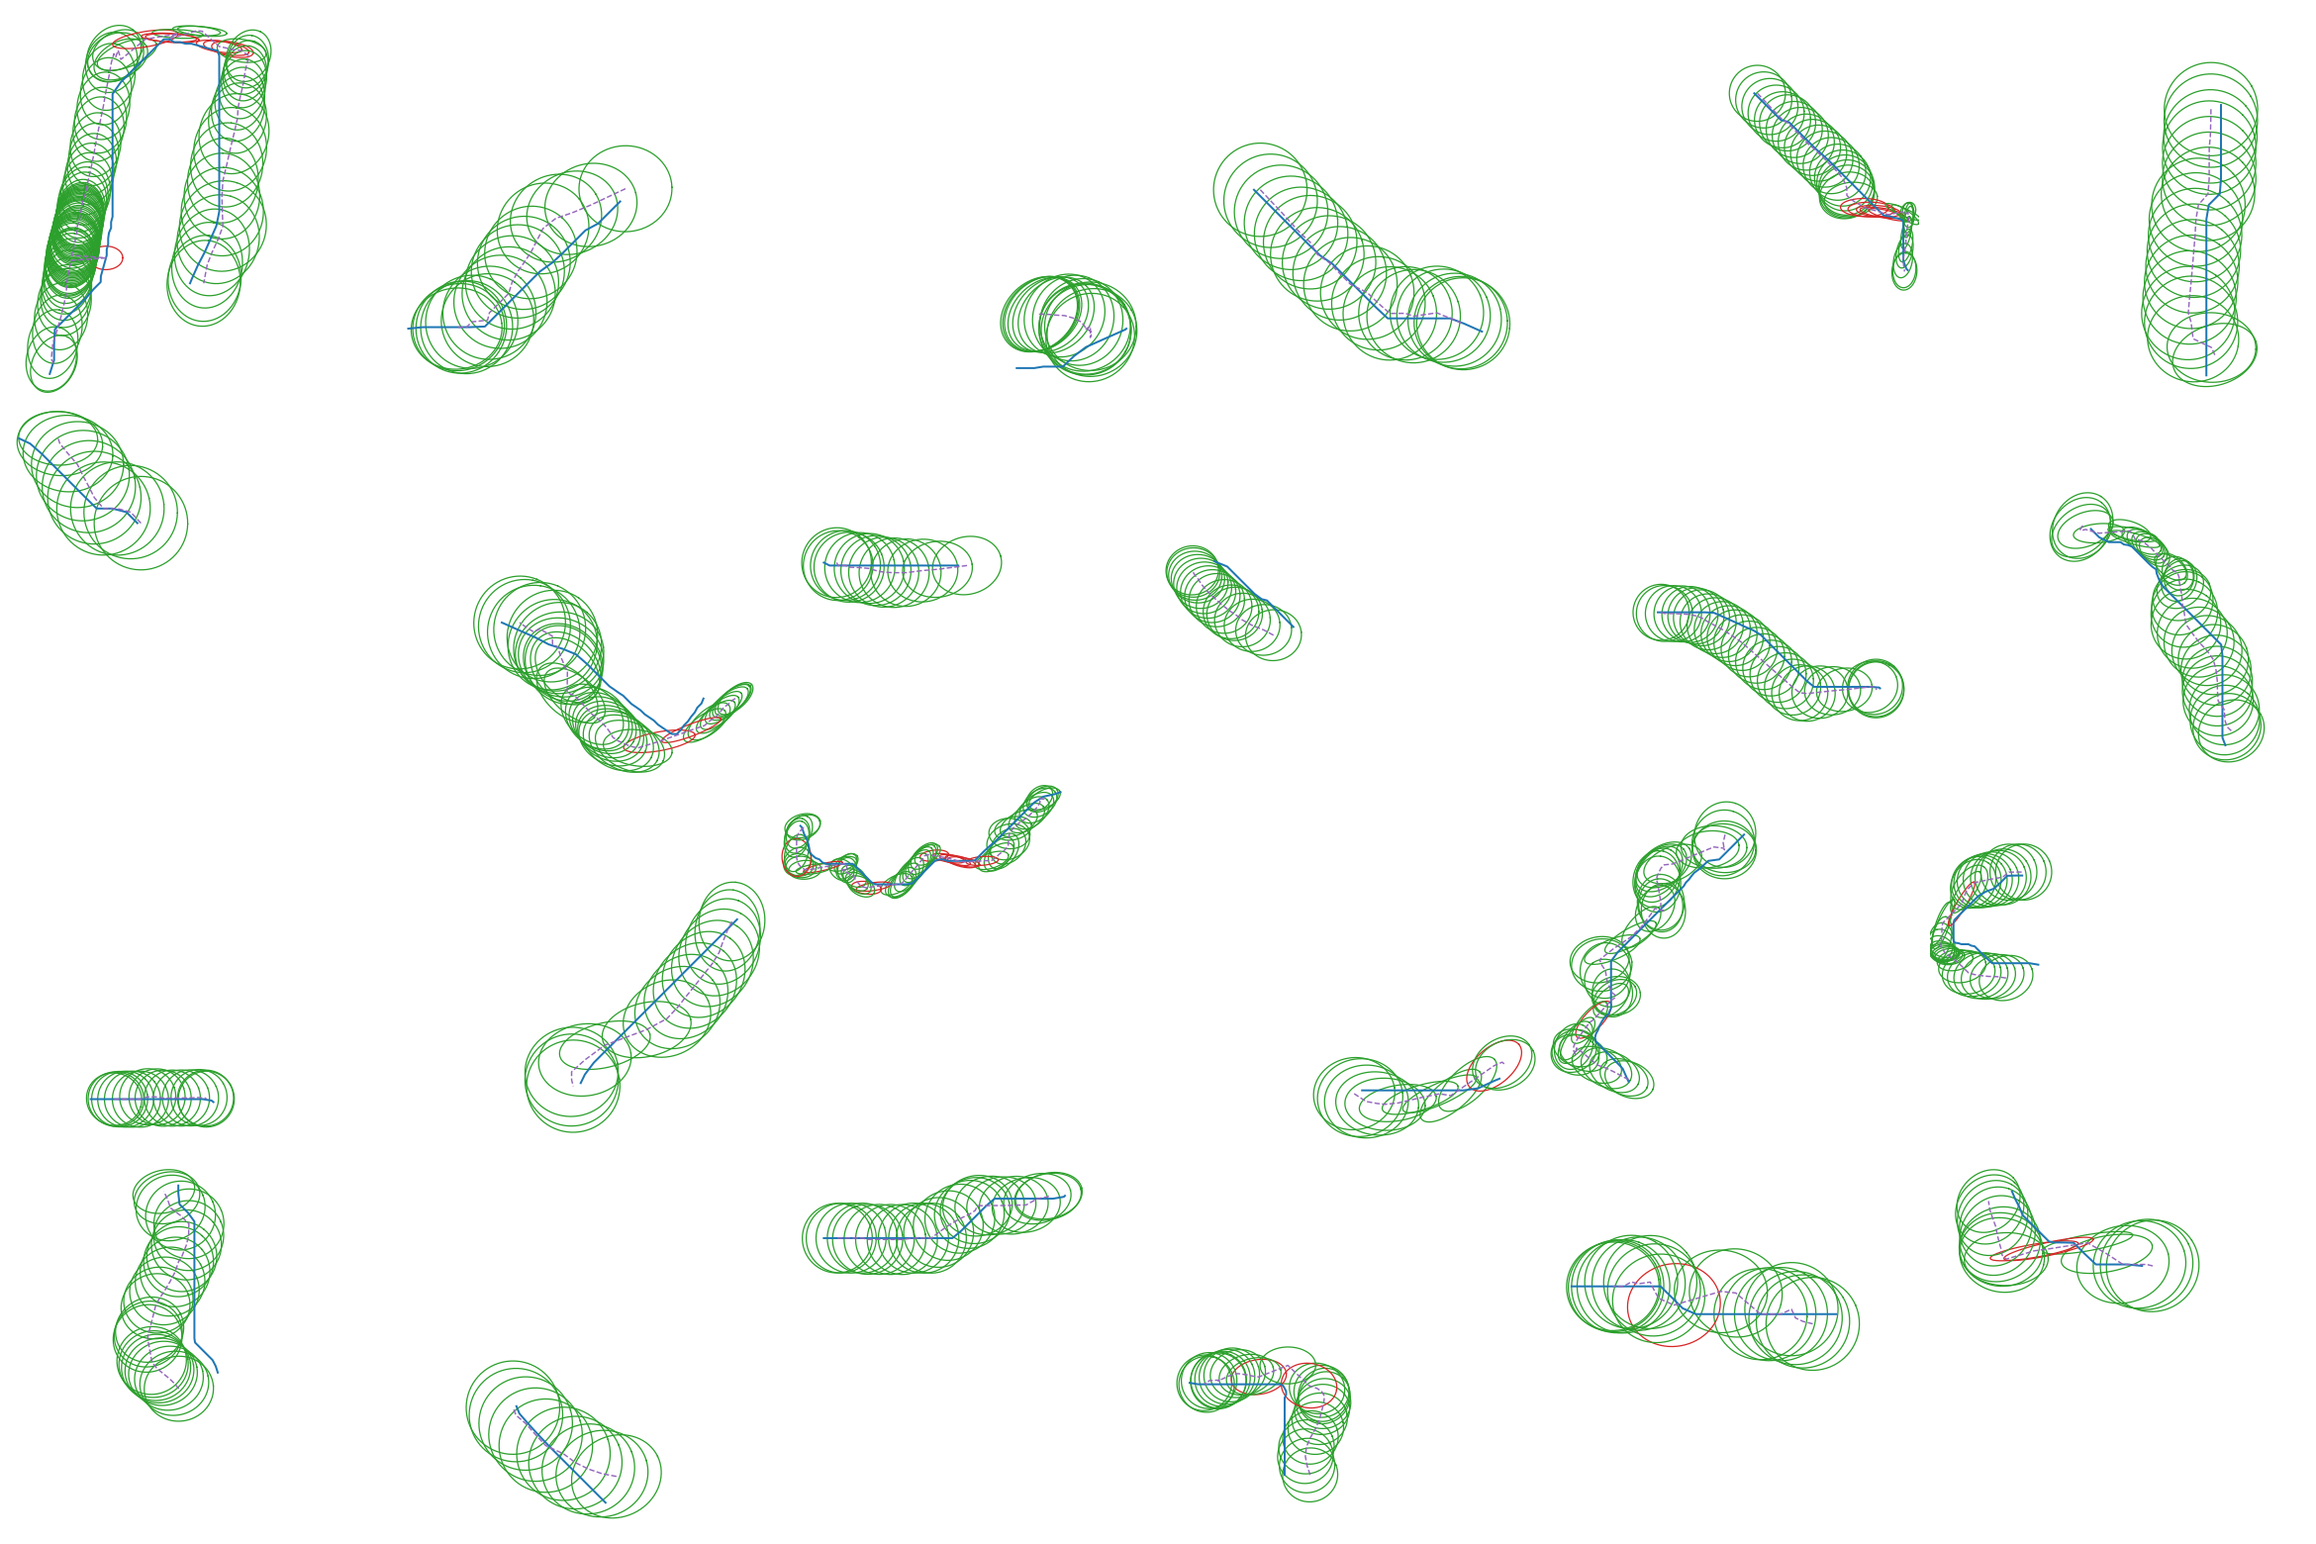
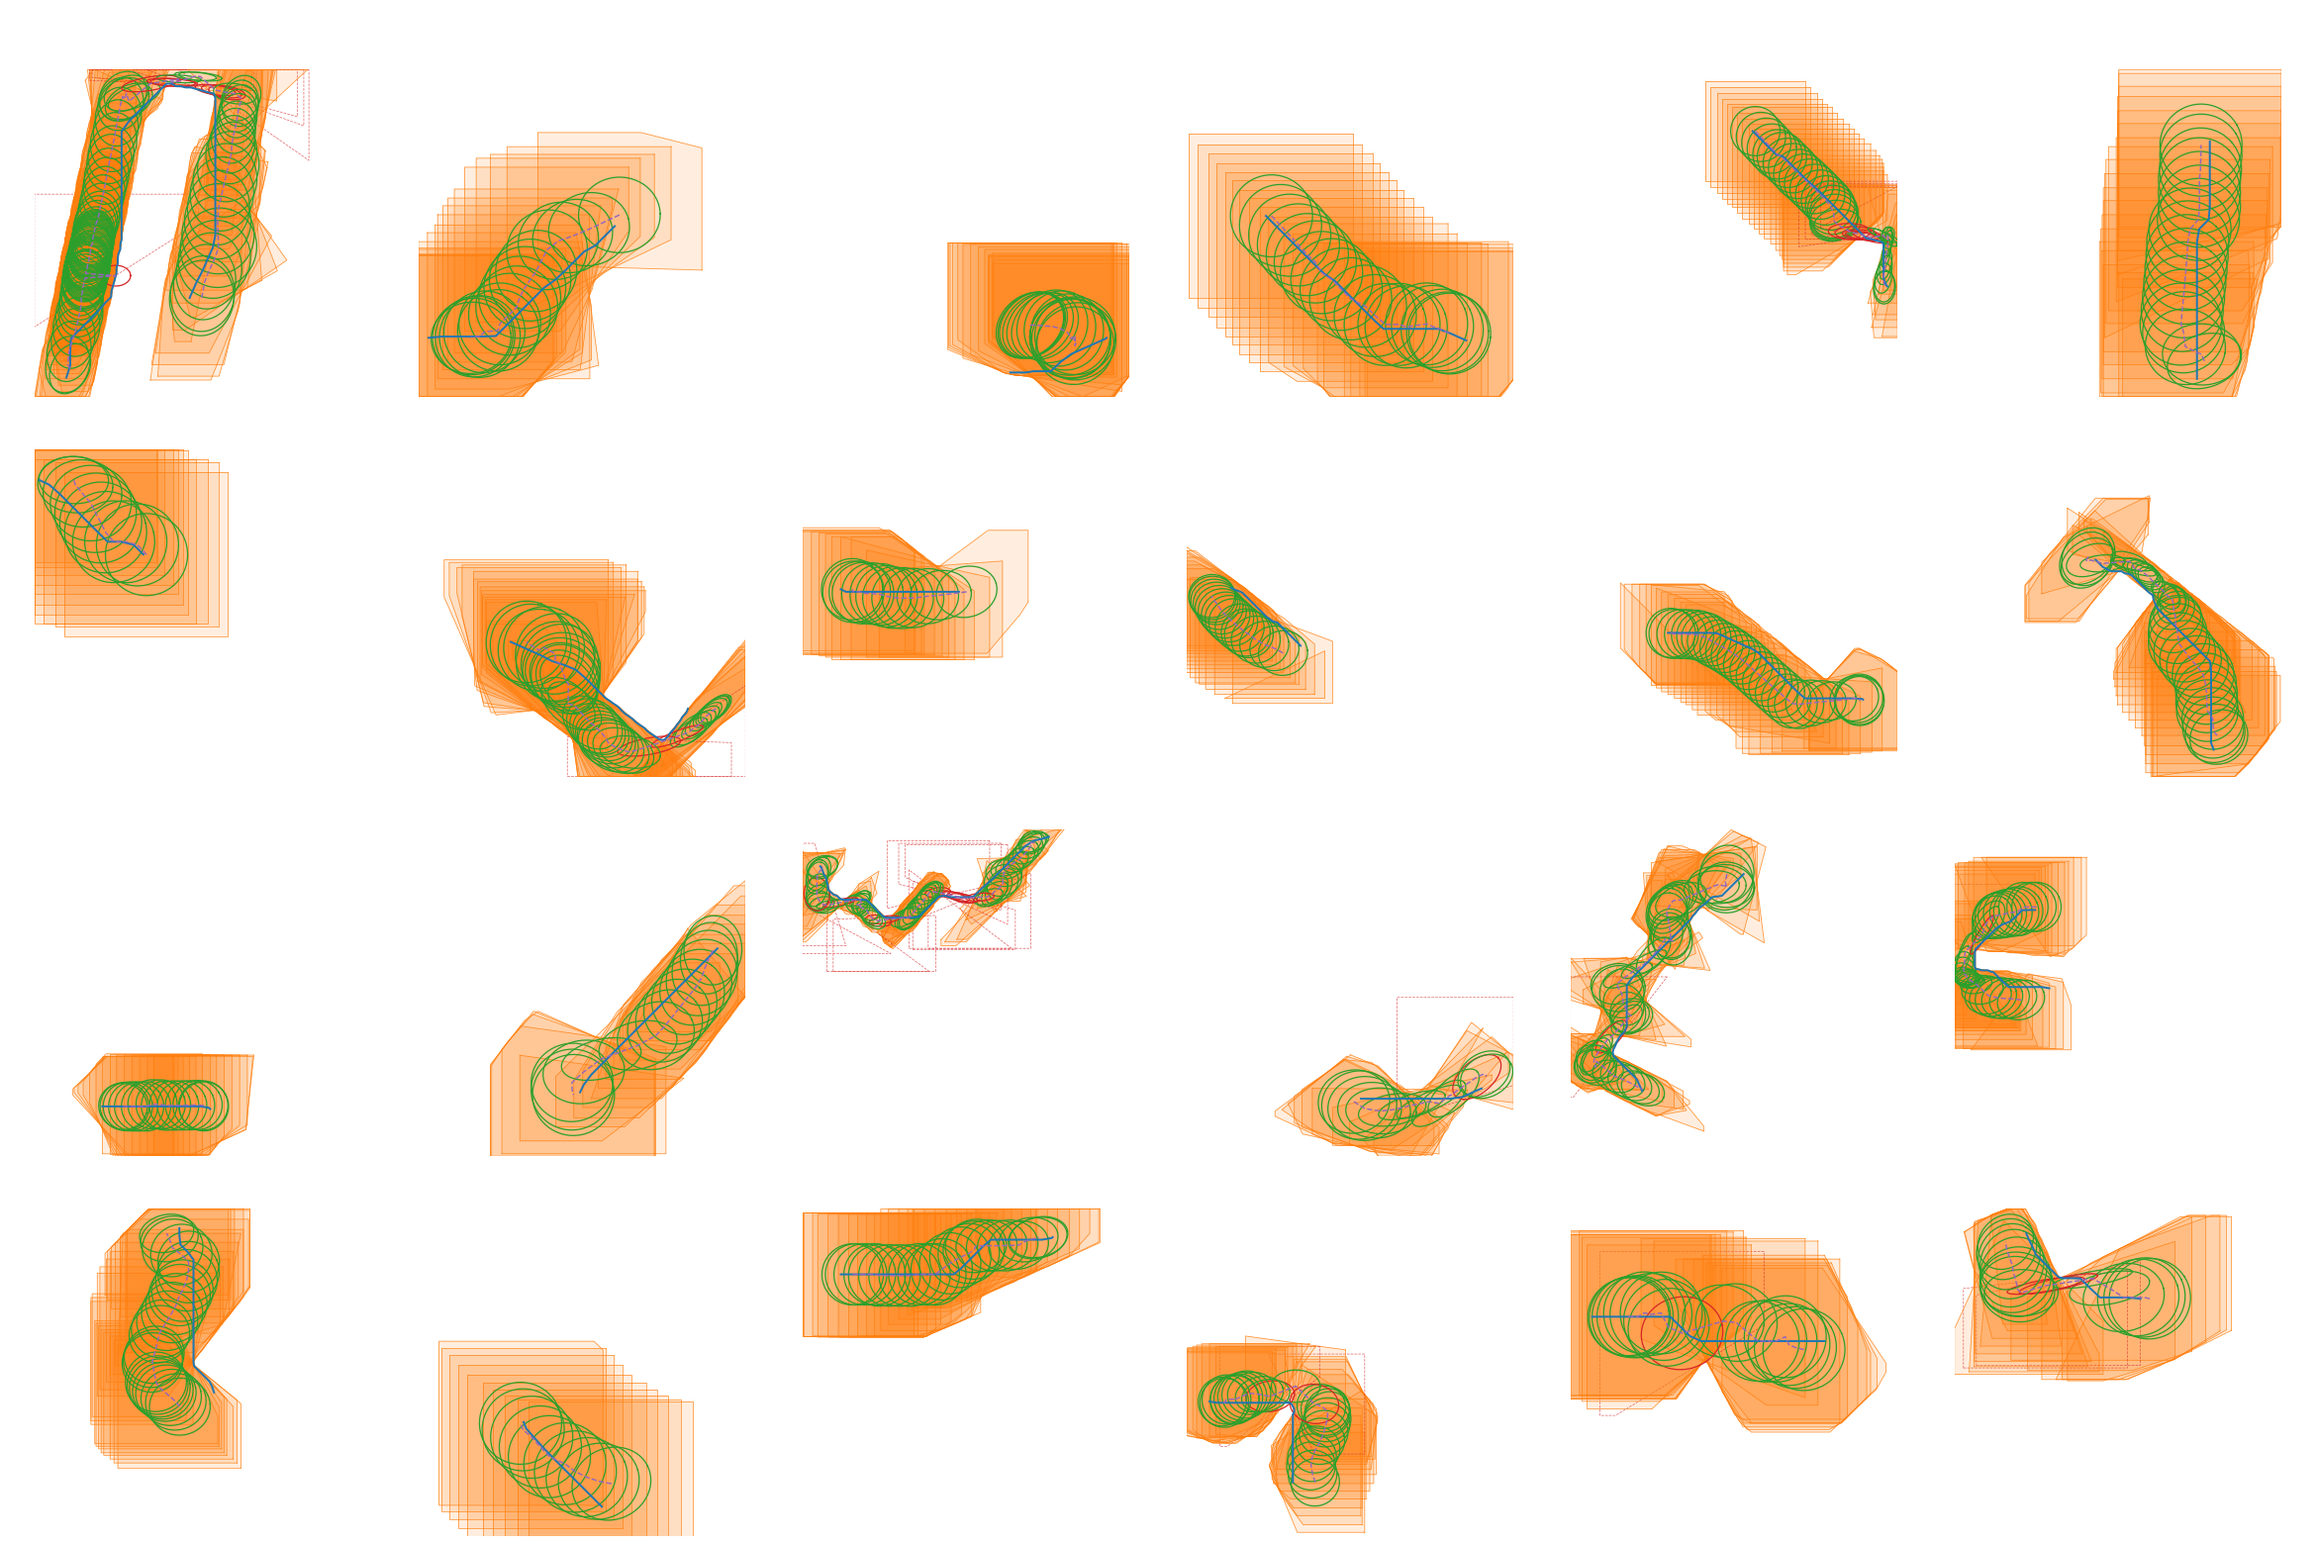
Visualise the convex safe regions in the prediction samples
ellipsenet/visualize_grid.py now draws one translucent polytope per predicted ellipse:
- fill + outline only when the region is *provably* obstacle free (converged and the ellipse
  itself safe); a colliding ellipse has no obstacle-free convex region, so it gets a dashed
  red outline and no fill - filling it would look like a bug;
- --no-regions keeps the old ellipse-only panels, --window-margin controls the region cap
  (default 3 m; the shipped samples use 6 m so regions reach the walls in open areas and the
  caption states it), per_trajectory.csv gains regions / regions_ok columns;
- grid layout fixed (hspace/top) so the two-line panel titles no longer clip.

ellipsenet/geometry/polytopes.py: polygon_from_halfspaces() promoted from the demo script to a
shared helper (both the grid and scripts/build_convex_regions.py use it now).

Regenerated results/figures/grid/ (grid_predictions.png, grid_predictions_plain.png,
grid_gt.png, single_0{0,1,2}.png, per_trajectory.csv). Audit of exactly the regions drawn in
the figure: 644 ellipses, 612 drawn regions, 0 of them contain a blocked cell (exact
corner-level verify_polytopes).

diff --git a/ellipsenet/visualize_grid.py b/ellipsenet/visualize_grid.py
@@ -26,6 +26,8 @@ sys.path.insert(0, PROJECT_ROOT)
 
 from ellipsenet.data.dataset import build_loader, load_index, split_by_group  # noqa: E402
 from ellipsenet.evaluation.metrics import exact_trajectory  # noqa: E402
+from ellipsenet.geometry.polytopes import (build_polytopes,  # noqa: E402
+                                           polygon_from_halfspaces)
 from ellipsenet.models.psenet import PSENet  # noqa: E402
 
 
@@ -37,7 +39,8 @@ def ellipse_xy(c, a, b, theta, m=72):
 
 
 @torch.no_grad()
-def collect(model, loader, device) -> List[Dict[str, object]]:
+def collect(model, loader, device, regions: bool = True,
+            window_margin: float = 3.0) -> List[Dict[str, object]]:
     out_rows: List[Dict[str, object]] = []
     for batch in loader:
         b = {k: (v.to(device) if torch.is_tensor(v) else v) for k, v in batch.items()}
@@ -63,6 +66,16 @@ def collect(model, loader, device) -> List[Dict[str, object]]:
             ex = exact_trajectory(center[i, :n], a[i, :n], bb[i, :n], th[i, :n],
                                   occ[i].astype(np.uint8), float(res[i]),
                                   rho_max=0.85)
+            # convex safe region per predicted ellipse (one batched call per trajectory)
+            polys = None
+            if regions:
+                polys = build_polytopes(
+                    torch.as_tensor(center[i, :n], device=device),
+                    torch.as_tensor(a[i, :n], device=device),
+                    torch.as_tensor(bb[i, :n], device=device),
+                    torch.as_tensor(th[i, :n], device=device),
+                    torch.as_tensor(occ[i], device=device), float(res[i]),
+                    window_margin_m=window_margin)
             out_rows.append({
                 "scene_id": batch["meta"]["scene_id"][i],
                 "file": batch["meta"]["file"][i],
@@ -75,6 +88,11 @@ def collect(model, loader, device) -> List[Dict[str, object]]:
                 "prob": prob[i, :n],
                 "gt_center": gt_c[i, :n], "gt_ab": gt_ab[i, :n],
                 "gt_theta": gt_th[i, :n], "gt_valid": gt_v[i, :n],
+                "regions": ([polygon_from_halfspaces(*polys.planes(k)) for k in range(n)]
+                            if polys is not None else None),
+                "regions_ok": (np.logical_and(polys.converged.cpu().numpy(),
+                                               polys.feasible.cpu().numpy())
+                                if polys is not None else None),
                 "safe": ex["safe"],
                 "pair_ok": ex["pair_ok"],
                 "pair_cover": ex["pair_cover"],
@@ -98,6 +116,22 @@ def draw_panel(ax, row: Dict[str, object], mode: str, idx: int,
     path = row["path"]
     ax.plot(path[:, 0], path[:, 1], "-", color="tab:blue", lw=1.1, zorder=4)
     if mode == "pred":
+        regs = row.get("regions")
+        if regs:
+            for i, poly in enumerate(regs):
+                if len(poly) < 3:
+                    continue
+                ok = bool(row["regions_ok"][i])
+                if ok:
+                    ax.fill(poly[:, 0], poly[:, 1], color="tab:orange", alpha=0.13,
+                            lw=0, zorder=2)
+                    ax.plot(np.r_[poly[:, 0], poly[0, 0]], np.r_[poly[:, 1], poly[0, 1]],
+                            "-", color="tab:orange", lw=0.45, alpha=0.8, zorder=2)
+                else:
+                    # the ellipse itself collides, so no obstacle-free region exists:
+                    # outline only, never fill (a fill here would look like a bug)
+                    ax.plot(np.r_[poly[:, 0], poly[0, 0]], np.r_[poly[:, 1], poly[0, 1]],
+                            "--", color="tab:red", lw=0.4, alpha=0.7, zorder=2)
         for i in range(row["n_points"]):
             x, y = ellipse_xy(row["center"][i], row["a"][i], row["b"][i], row["theta"][i])
             ax.plot(x, y, "-", lw=0.7,
@@ -107,9 +141,9 @@ def draw_panel(ax, row: Dict[str, object], mode: str, idx: int,
         if titles:
             safe = float(np.mean(row["safe"]))
             cover = np.mean(row["pair_cover"]) if len(row["pair_cover"]) else 0.0
-            ax.set_title(f"{idx:02d} {row['scene_id'][:24]}\n"
+            ax.set_title(f"{idx:02d} {row['scene_id'][:18]}\n"
                          f"safe {safe:.2f} | cover {cover:.2f} | N={row['n_points']}",
-                         fontsize=6.5)
+                         fontsize=6.0, pad=2.0)
     else:
         v = row["gt_valid"]
         for i in range(row["n_points"]):
@@ -145,6 +179,10 @@ def main() -> int:
     ap.add_argument("--no-titles", action="store_true", help="no text at all")
     ap.add_argument("--big", type=int, default=3,
                     help="how many large clean single-trajectory figures to write")
+    ap.add_argument("--no-regions", action="store_true",
+                    help="skip the convex safe regions (ellipses only)")
+    ap.add_argument("--window-margin", type=float, default=3.0,
+                    help="region cap beyond the ellipse semi-major axis [m]")
     args = ap.parse_args()
 
     import matplotlib
@@ -168,7 +206,8 @@ def main() -> int:
     loader = build_loader([entries[i] for i in pick], cfg["data"]["trajectory_dir"],
                           cfg["data"]["sdf_dir"], args.batch_size, cfg,
                           augment=False, shuffle=False)
-    rows = collect(model, loader, device)
+    rows = collect(model, loader, device, regions=not args.no_regions,
+                   window_margin=args.window_margin)
     os.makedirs(args.out_dir, exist_ok=True)
 
     n = len(rows)
@@ -190,12 +229,14 @@ def main() -> int:
             else:
                 ax.axis("off")
         if not args.no_titles:
+            extra = (f" | regions: window +{args.window_margin:g} m"
+                     if (mode == "pred" and not args.no_regions) else "")
             fig.suptitle(f"{os.path.basename(os.path.dirname(os.path.abspath(args.checkpoint)))}"
                          f" | split {args.split} | {n} trajectories | "
-                         f"{'prediction' if mode == 'pred' else 'GT reference (diagnostic only)'}",
-                         fontsize=11)
-        fig.subplots_adjust(left=0.005, right=0.995, top=0.985, bottom=0.005,
-                            wspace=0.02, hspace=0.02)
+                         f"{'prediction + convex safe regions' if mode == 'pred' else 'GT reference (diagnostic only)'}"
+                         + extra, fontsize=11, y=0.995)
+        fig.subplots_adjust(left=0.005, right=0.995, top=0.955, bottom=0.005,
+                            wspace=0.03, hspace=0.16)
         fig.savefig(os.path.join(args.out_dir, name), dpi=130)
         plt.close(fig)
 
@@ -213,7 +254,7 @@ def main() -> int:
         wr.writerow(["idx", "scene_id", "file", "n_points", "resolution_m",
                      "exact_safe_rate", "collision_rate", "midpoint_continuity",
                      "boundary_cover", "corridor_success", "border_violation",
-                     "area_p50_m2", "p_max_mean"])
+                     "area_p50_m2", "p_max_mean", "regions", "regions_ok"])
         for k, r in enumerate(rows):
             wr.writerow([k, r["scene_id"], r["file"], r["n_points"], f"{r['resolution_m']:.4f}",
                          f"{np.mean(r['safe']):.4f}", f"{1 - np.mean(r['safe']):.4f}",
@@ -221,7 +262,9 @@ def main() -> int:
                          f"{np.mean(r['pair_cover']) if len(r['pair_cover']) else float('nan'):.4f}",
                          int(r["corridor_ok"]), f"{np.mean(r['border']):.4f}",
                          f"{np.median(np.pi * r['a'] * r['b']):.1f}",
-                         f"{np.mean(r['prob']):.3f}"])
+                         f"{np.mean(r['prob']):.3f}",
+                         len(r["regions"]) if r["regions"] else 0,
+                         int(np.sum(r["regions_ok"])) if r["regions"] else 0])
 
     # summary figure: per-trajectory distributions
     safe = np.array([np.mean(r["safe"]) for r in rows])

diff --git a/ellipsenet/geometry/polytopes.py b/ellipsenet/geometry/polytopes.py
@@ -476,6 +476,35 @@ def verify_polytopes(polys: Polytopes, blocked: torch.Tensor, resolution_m: floa
             "violating_cells": float(bad_cells)}
 
 
+def polygon_from_halfspaces(A: np.ndarray, b: np.ndarray) -> np.ndarray:
+    """Vertices of ``{A x <= b}`` in counter-clockwise order (for plotting / clipping).
+
+    Every vertex of a bounded 2-D polytope is the intersection of two of its faces, so
+    the corner list is "all feasible pairwise intersections" and their convex hull.
+    Returns ``(0, 2)`` when the region is empty or degenerate.
+    """
+    from scipy.spatial import ConvexHull
+
+    n = A.shape[0]
+    pts = []
+    for i in range(n):
+        for j in range(i + 1, n):
+            M = np.stack([A[i], A[j]])
+            if abs(np.linalg.det(M)) < 1e-9:
+                continue
+            p = np.linalg.solve(M, np.array([b[i], b[j]]))
+            if np.all(A @ p <= b + 1e-6):
+                pts.append(p)
+    if len(pts) < 3:
+        return np.empty((0, 2))
+    pts = np.asarray(pts)
+    try:
+        hull = ConvexHull(pts)
+    except Exception:                      # collinear / duplicate corners
+        return np.empty((0, 2))
+    return pts[hull.vertices]
+
+
 def polytope_area(A: np.ndarray, b: np.ndarray) -> float:
     """Area of ``{A x <= b}`` via the convex hull of feasible plane intersections."""
     from scipy.spatial import ConvexHull

diff --git a/README.md b/README.md
@@ -22,7 +22,7 @@
 | 单条轨迹推理耗时（batch 1，RTX 4070） | **10.9 ms**（模型 8.4 ms；同场景复用地图特征 2.8 ms） |
 
 定性与定量对比：`results/figures/predictions/`（6 条预测/GT 对照 + 16 候选放大）、
-`results/figures/grid/`（24 条轨迹网格，含纯白底版）、`results/figures/curves/`（损失曲线与指标表）。
+`results/figures/grid/`（24 条轨迹网格，含安全凸区域与纯白底版）、`results/figures/polytopes/`（区域放大图）、`results/figures/curves/`（损失曲线与指标表）。
 
 ## 目录
 
@@ -78,7 +78,9 @@ $PY ellipsenet/evaluate.py --checkpoint checkpoints/v3_best.pt --split test
 $PY ellipsenet/visualize.py --checkpoint checkpoints/v3_best.pt --split test --n 6 \
     --seed 7 --candidate-figs 2 --out-dir results/figures/predictions
 $PY ellipsenet/visualize_grid.py --checkpoint checkpoints/v3_best.pt --split test \
-    --n 24 --seed 11 --cols 6 --plain --no-titles --big 3 --out-dir results/figures/grid
+    --n 24 --seed 11 --cols 6 --big 3 --out-dir results/figures/grid      # 椭圆 + 凸区域
+$PY ellipsenet/visualize_grid.py ... --no-regions                        # 只画椭圆
+$PY ellipsenet/visualize_grid.py ... --plain --no-titles                 # 白底无文字版
 
 # 推理时延基准（batch 1）
 $PY scripts/bench_inference.py --checkpoint checkpoints/v3_best.pt --iters 50
@@ -116,6 +118,10 @@ $PY ellipsenet/train.py --tag conft3 --resume checkpoints/connctl/best.pt --no-e
 `ellipsenet/geometry/polytopes.py` 把每个预测椭圆吹成凸多面体（半空间交）。方法借鉴
 Neural-IRIS 的局部 patch 贪心 + 分离超平面，做了三处改动：方格"近端面"平面、闭式精确
 重叠判定、8 方向种子 + 单一精确循环（循环终止条件即验收）。
+
+可视化：`ellipsenet/visualize_grid.py` 默认把每个预测椭圆的凸安全区域画出来（橙色半透明填充
+= 精确收敛且椭圆自身安全；红色虚线轮廓 = 该椭圆自身压着障碍，几何上不存在无障碍凸区域，故不填充）。
+`per_trajectory.csv` 里新增 `regions` / `regions_ok` 两列。
 
 ```bash
 $PY tests/test_polytopes.py                          # 10 组不变量（含速度与并行/串行等价安全）
